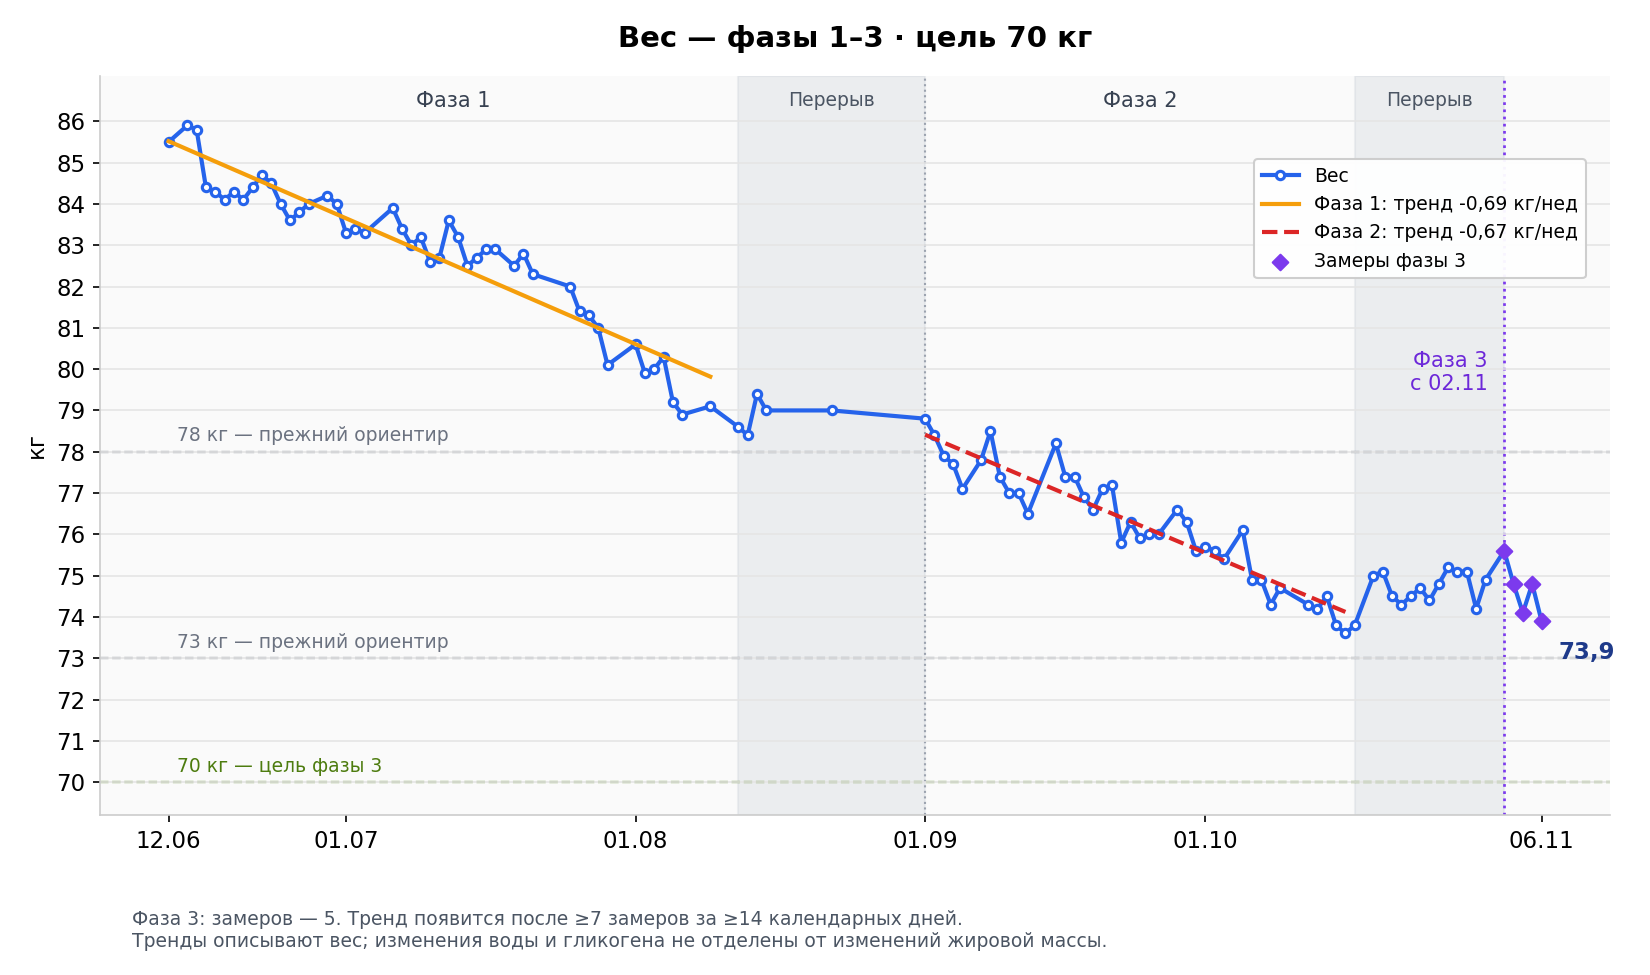
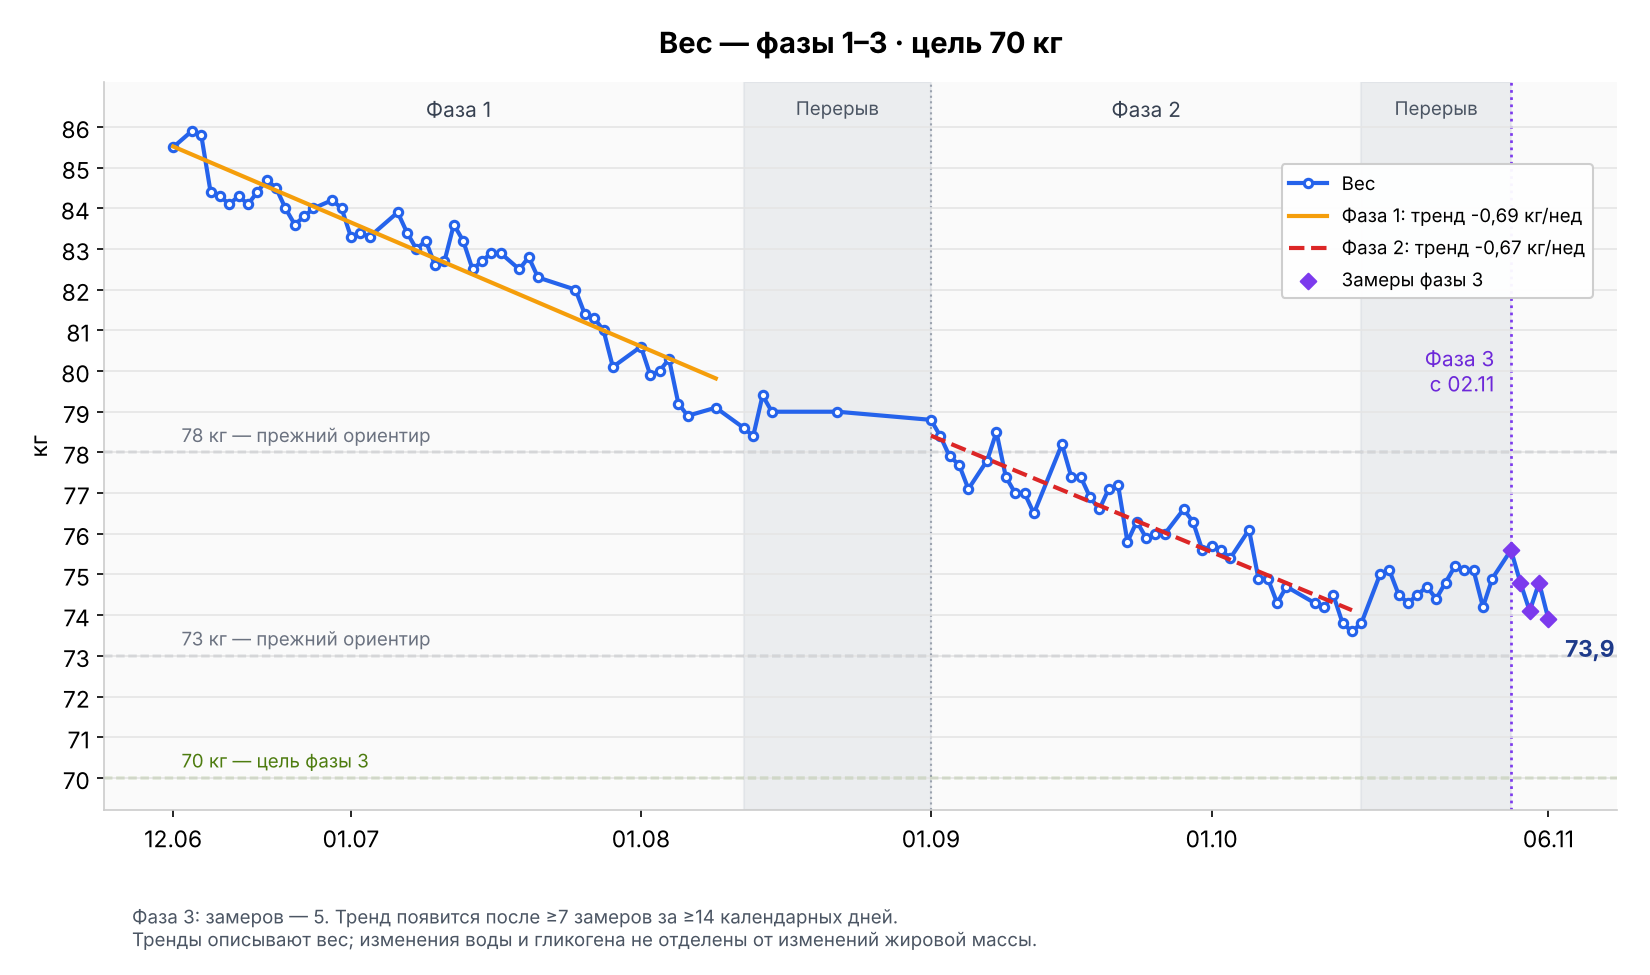
Главная страница: графики веса и калорий и ссылки на журналы
README теперь показывает график веса, график калорий и ссылки на
журналы питания и веса, план фаз и тренировки. Графики перестроены
по текущим данным.

Claude-Session: https://claude.ai/code/session_01BcPogZpufV1jxrQv9Sbikk

diff --git a/README.md b/README.md
@@ -1,5 +1,22 @@
-# planning
+# Похудение: 85 → 70 кг
 
-Личное планирование здоровья: похудение, питание, вес и тренировки.
+Фаза 3 со 2 ноября 2026 · обычный день 1900 ккал, суббота до 2500 ккал · белок 150 г
 
-- `health/` — фазы похудения, дневники питания и веса, тренировки, графики
+## Вес
+
+![График веса](health/weight.png)
+
+Все замеры: [журнал веса](health/журнал-веса.md)
+
+## Питание
+
+![Калории по дням](health/calories.png)
+
+Все дни с КБЖУ: [журнал питания](health/журнал-еды.md)
+
+## Остальное
+
+- [План и фазы](health/00-обзор.md) · [фаза 3](health/03-фаза-3.md)
+- [Тренировки](health/тренировки.md)
+- [Идеи меню](health/меню-идеи.md)
+- [Отчёт для врача](health/отчёт-для-врача.md)
